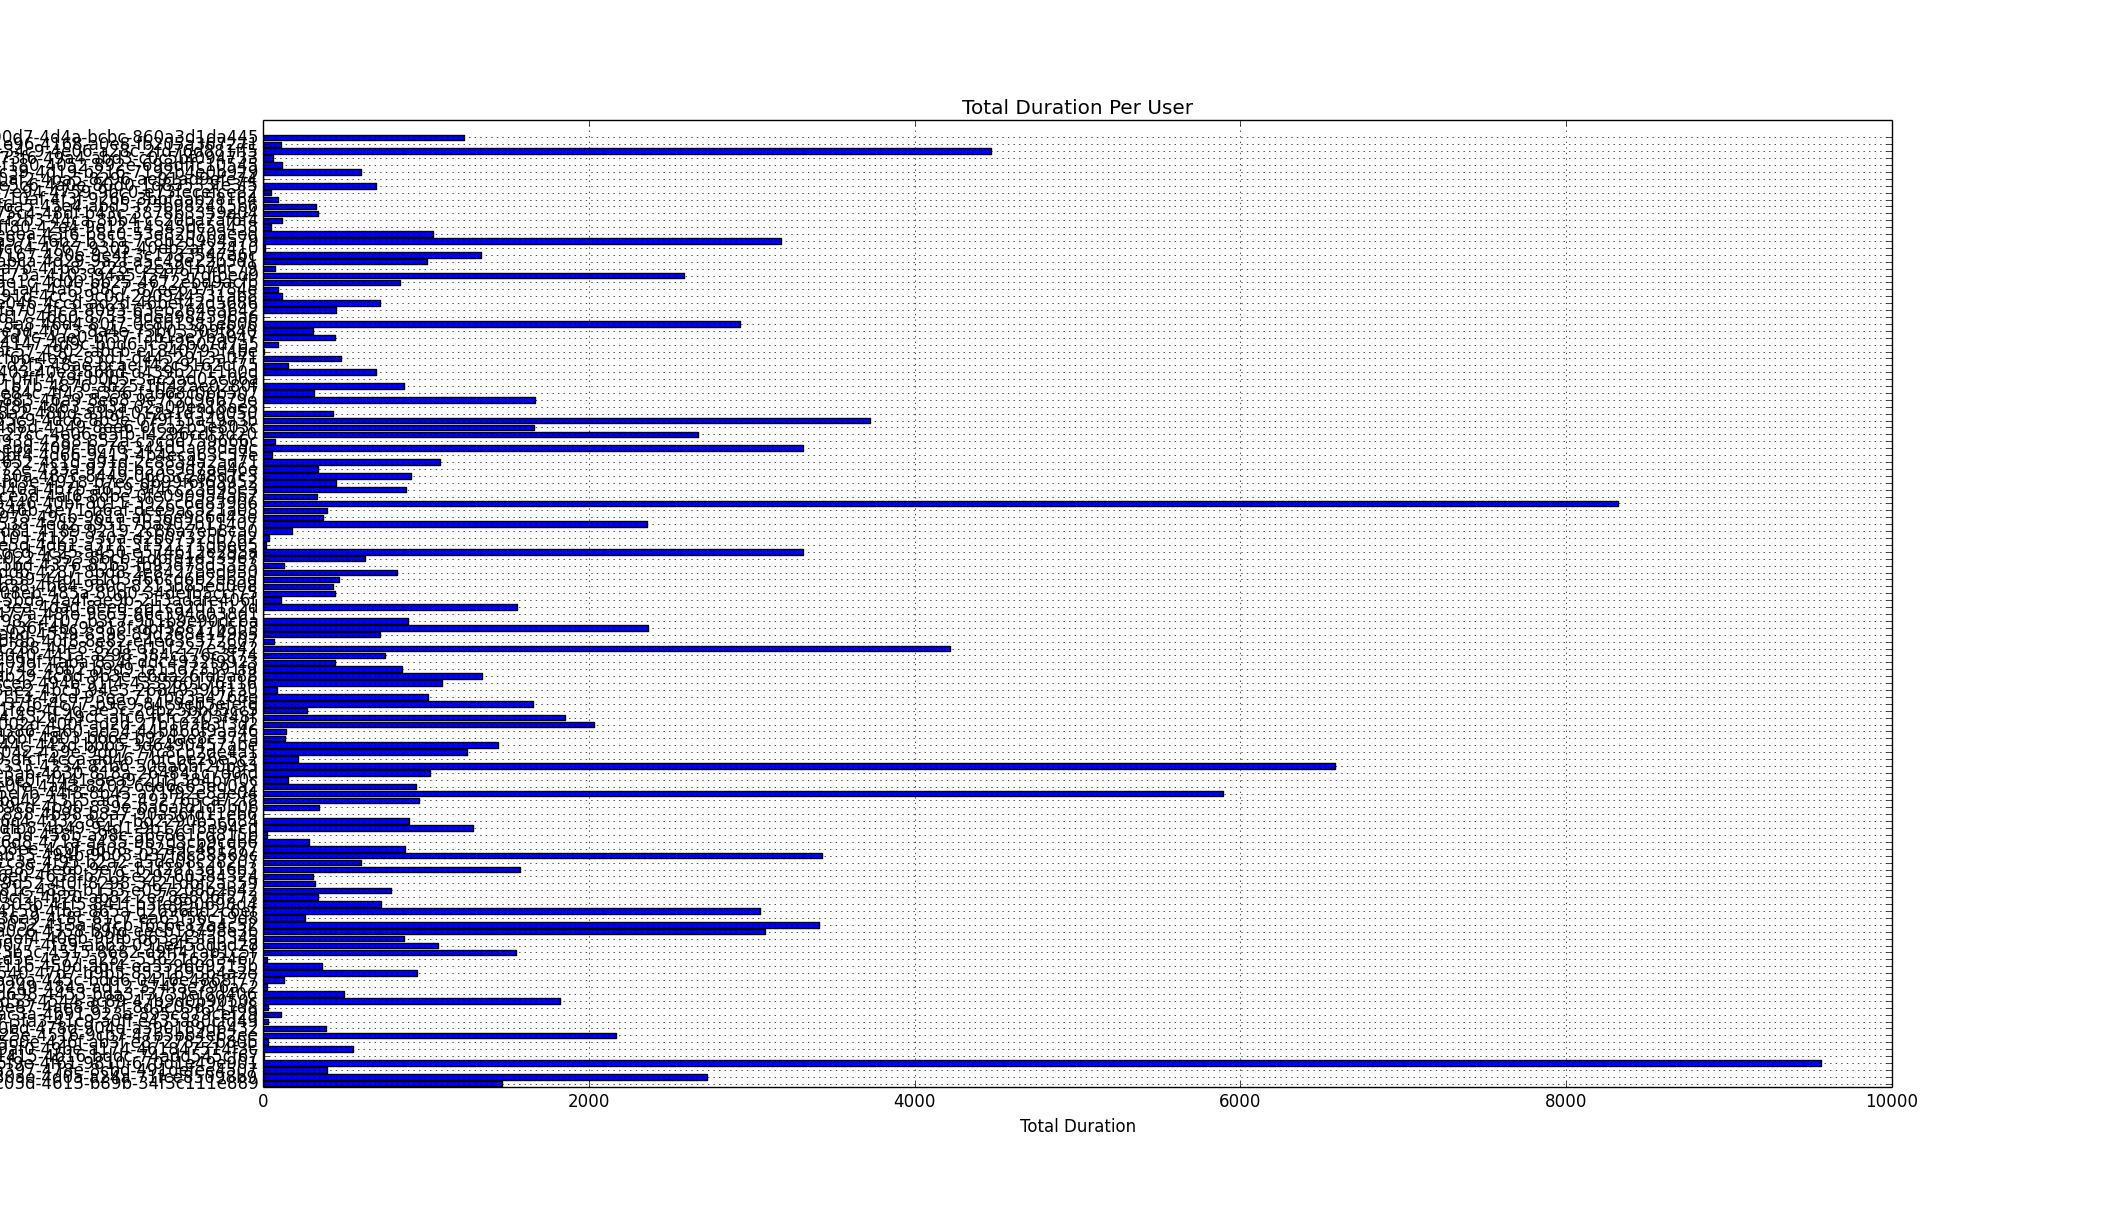
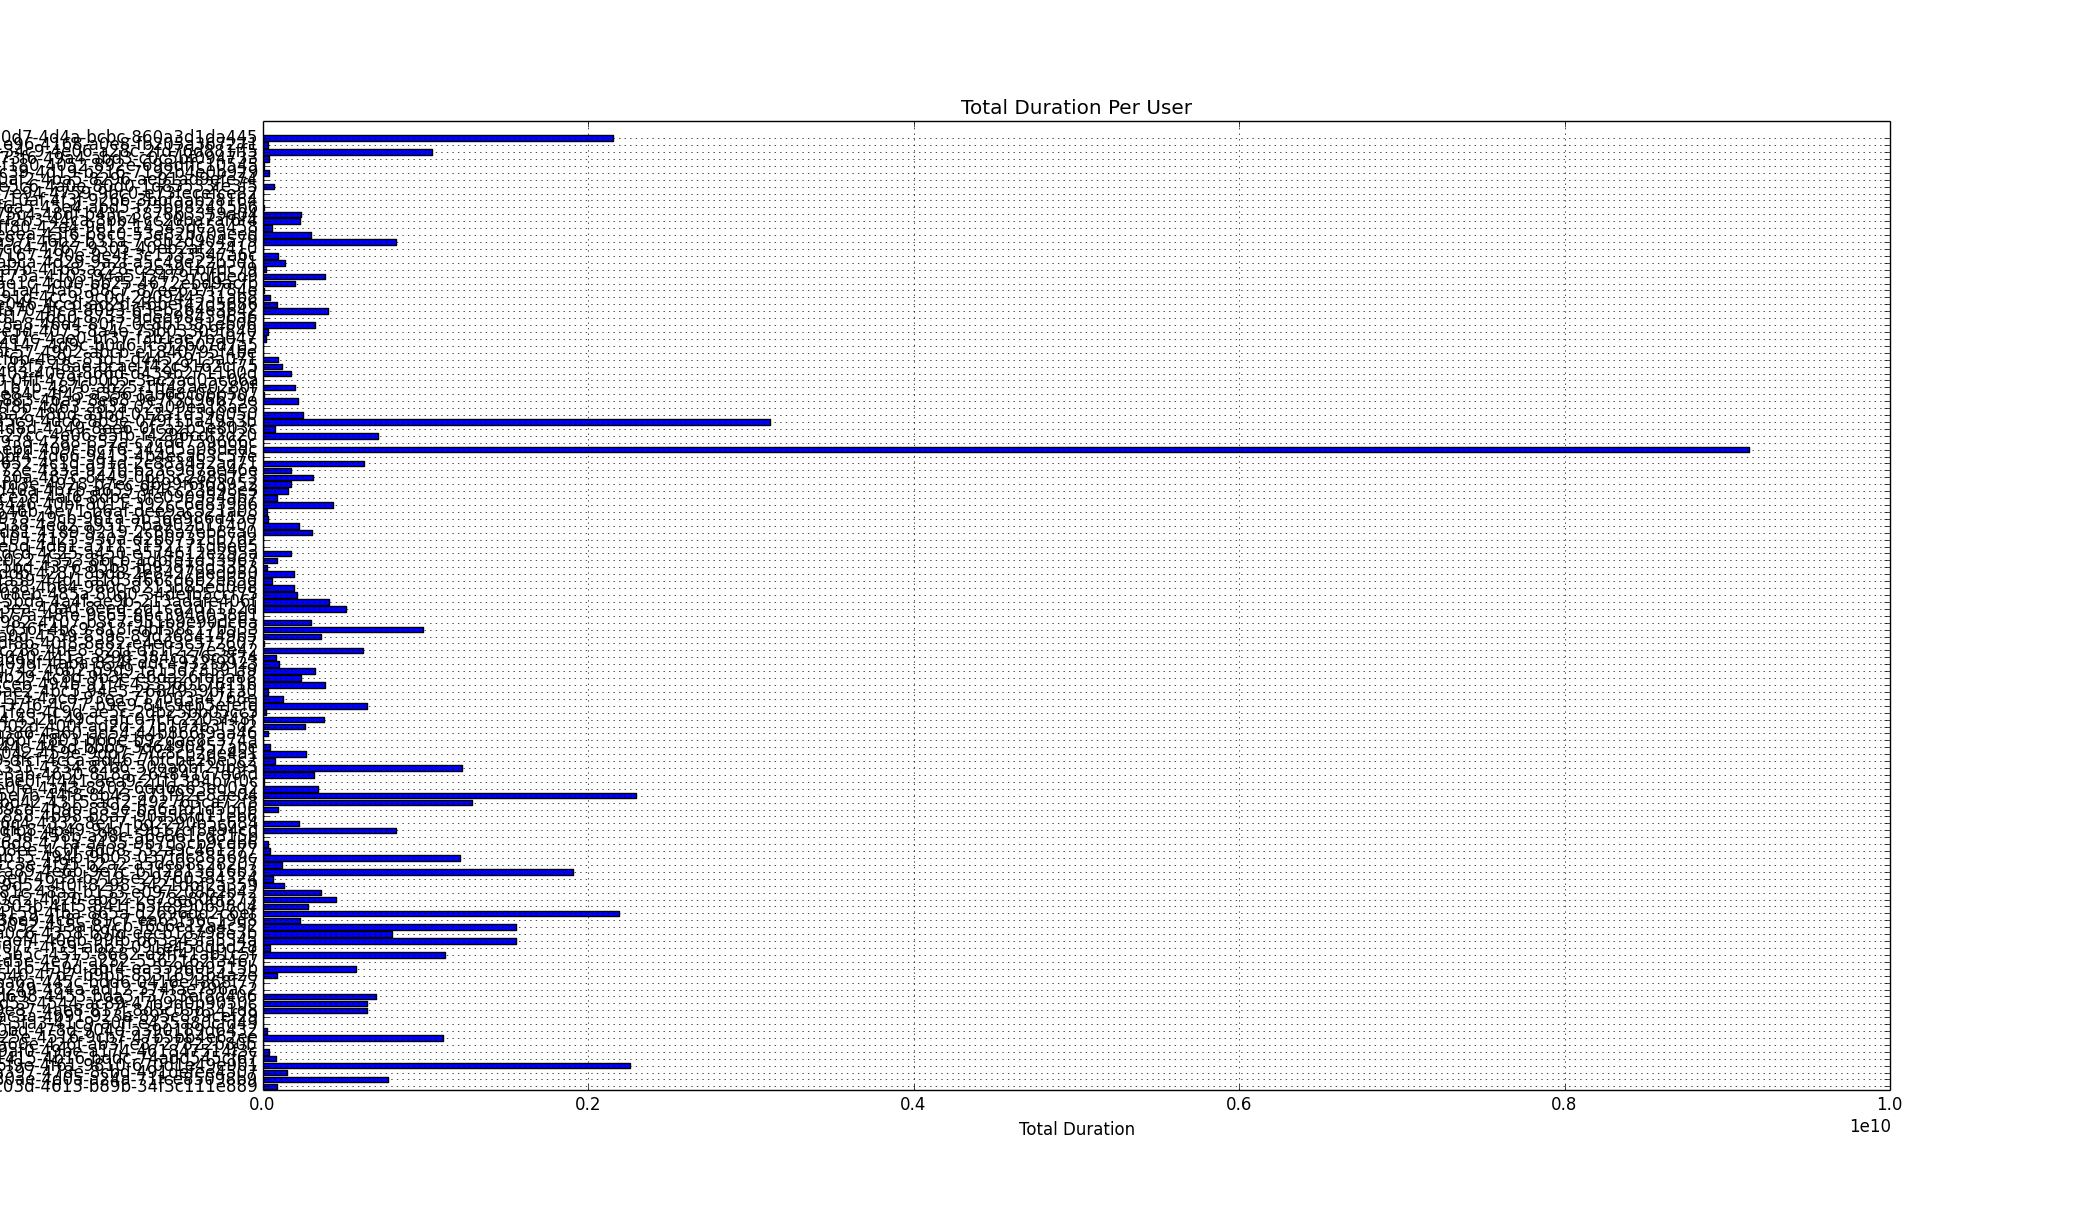
new graph

Changed region(s): [[0.0, 0.0919, 0.9286, 0.9189]]

diff --git a/analysis_report/img/draw1.py b/analysis_report/img/draw1.py
@@ -6,7 +6,7 @@ len1 = len(dict1.keys())
 
 pos = arange(len1) + .5
 
-val = [dict1[a][1] for a in dict1.keys()]
+val = [dict1[a][0] for a in dict1.keys()]
 
 
 figure(1)
